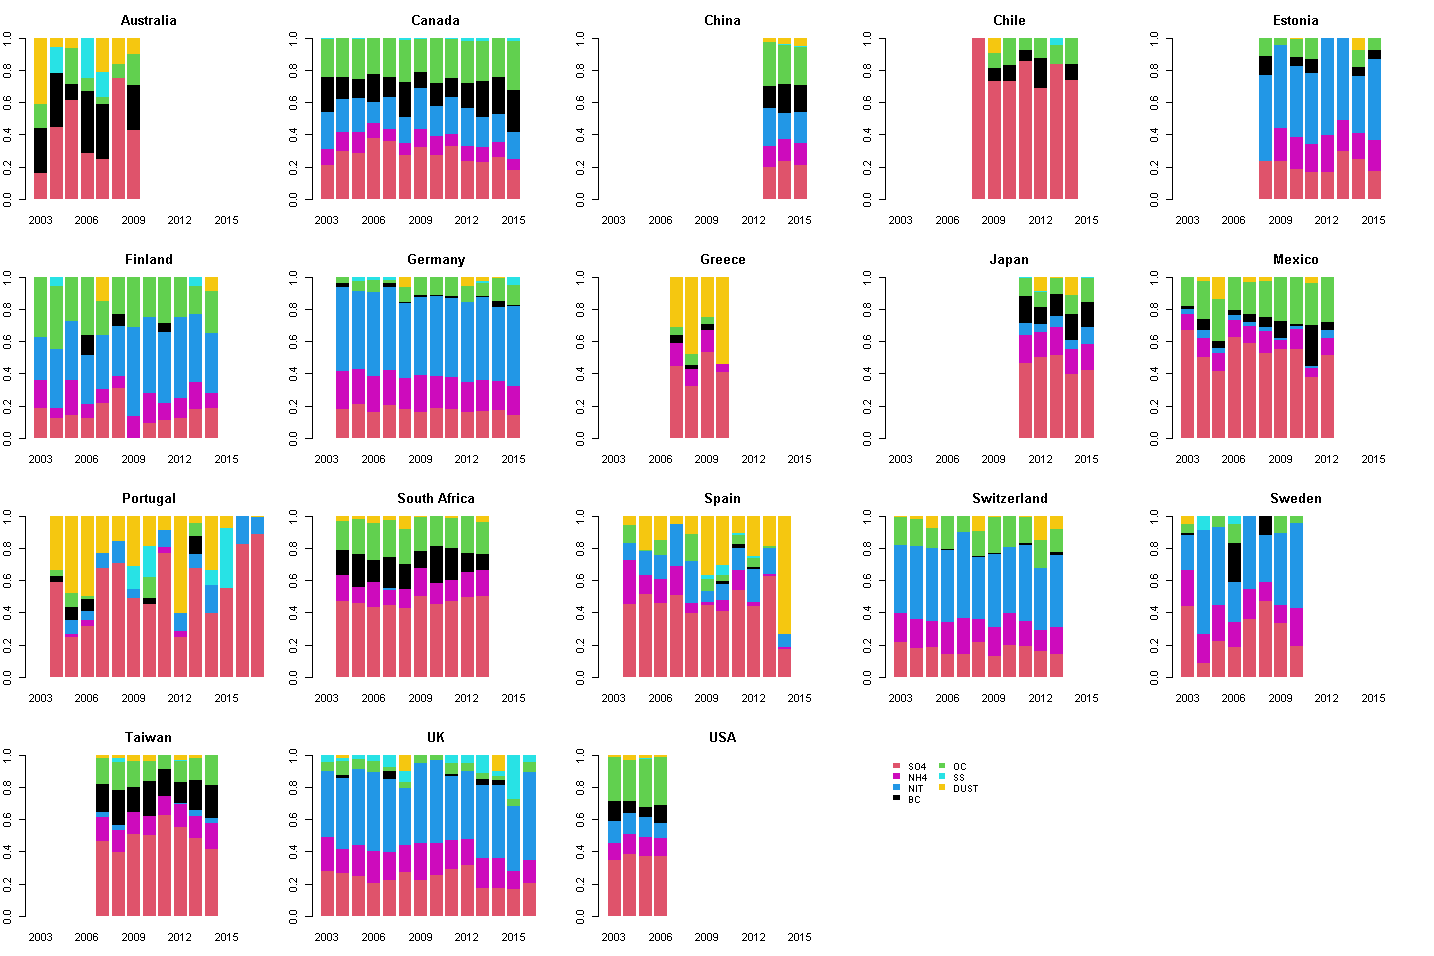
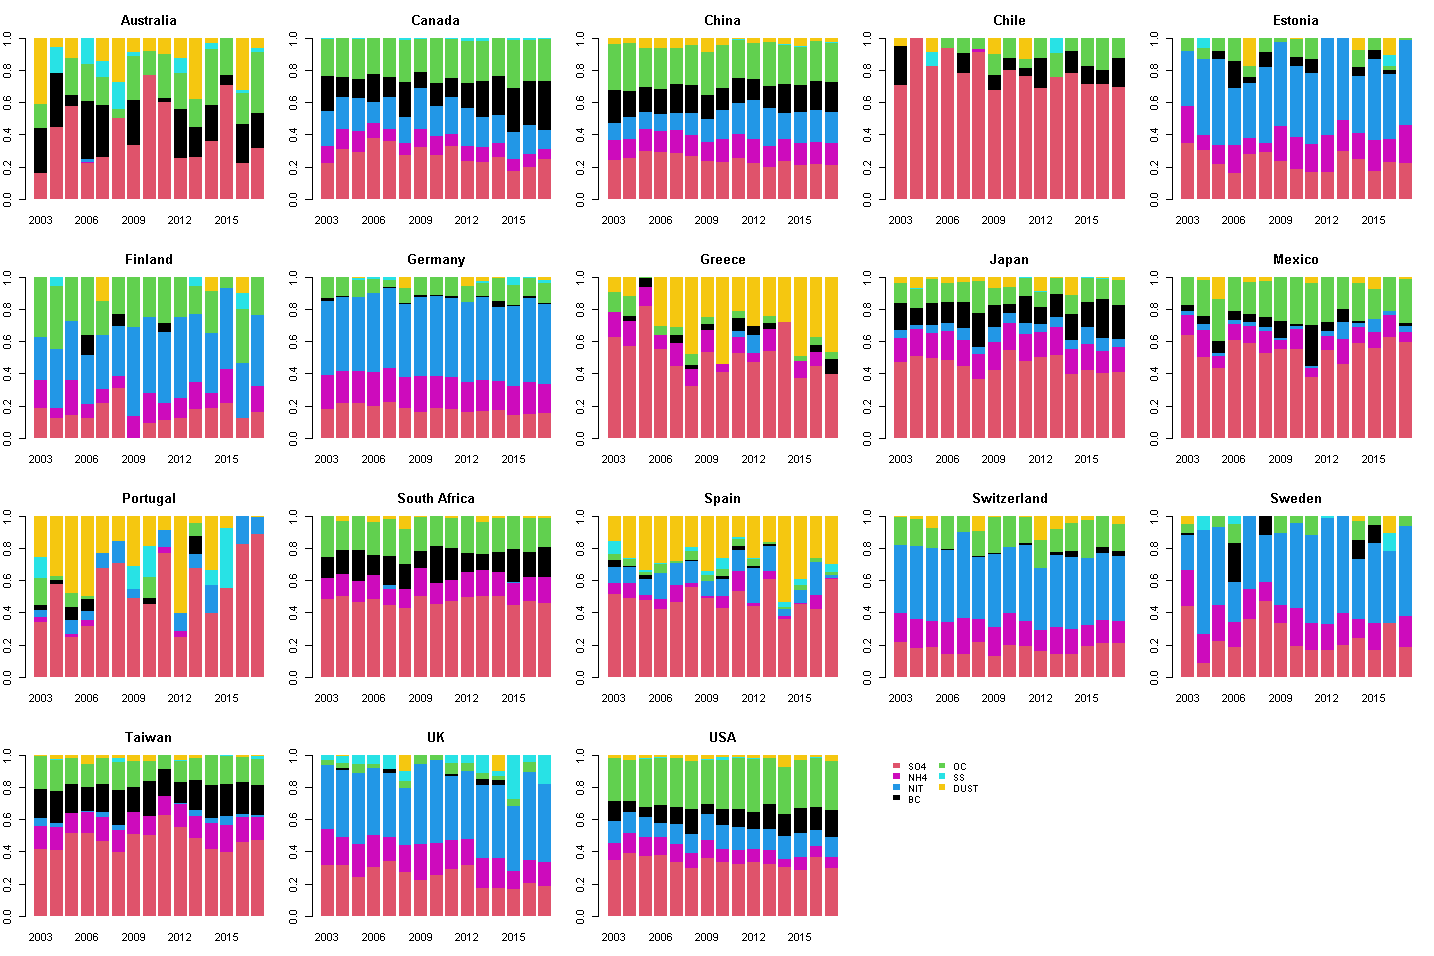
Wrapping up a first version of the analysis
The major novelty here is the addition of the meta-regression with constituent proportions. The method employs log-ratios as in compositional data analysis.

Descriptive statistics of the composition are added.

Small change in constituent data: all years are kept to have more representative means per city.

Update of the README to present a (very rough) summary of the analysis so far.

diff --git a/README.md b/README.md
@@ -4,17 +4,23 @@ Here is a summary of what I have done so far.
 
 ## Data
 
-For the first stage PM2.5 data, I roughly follow previous approach to clean the data. I exclude cities that have less than two years of pollution data. I also exclude the cities that have a too high proportion of missing data between the first and last valid data.
+For the first stage PM2.5 data, I roughly follow previous approach to clean the data. I exclude cities that have less than one year of pollution data. I also exclude the cities that have a too high proportion of missing data between the first and last valid data.
 
-For the constituent data (SPEC), I hereby use the 10km buffer aggregation since it allows to have a lower proportion of zero values. But overall the results are really similar between the two datasets.
+For the constituent data (SPEC), I hereby use the 10km buffer aggregation since it allows to have a lower proportion of zero values. But overall the results are really similar between the two datasets. 
 
-To harmonize both datasets (pollution and SPEC), I only selected common years between them. This corresponds to years between 2003 and 2017 for which there are PM2.5 values. It significantly reduces the time series length for some countries especially for North American ones (USA and Canada).
+As discussed, I make the hypothesis that pollution is time-invariant. This means that I use all PM2.5 data after 1999 for the first stage, and all constituent data (2003-2017).
 
-![TSlength](https://github.com/PierreMasselot/MCC-HetPoll/blob/master/Results/1_TSlength.png)
+Here, I compare the sum of mean concentration of each constituent ofr each country to the mean of observed PM2.5 for each common year. It shows that the constituent sum does not quite add up to the observed level of PM2.5. 
 
-Here, I compare the sum of mean concentration of each constituent ofr each country to the mean of observed PM2.5 for each year. It shows that the constituent sum does not quite add up to the observed level of PM2.5.
+![SpecCountries](https://github.com/PierreMasselot/MCC-HetPoll/blob/master/Results/1a_SpecCountries.png)
 
-![SpecCountries](https://github.com/PierreMasselot/MCC-HetPoll/blob/master/Results/1_SpecCountries.png)
+Below is the same plot but showing proportions for all years. Overall, there is little variation of proportions within countries from year to years, athough there are few trends. For instance the proportion of DUST seems to increase in Greece while decreasing on Portugal. 
+
+![PropCountries](https://github.com/PierreMasselot/MCC-HetPoll/blob/master/Results/1b_CompCountries.png)
+
+The following plot shows the variation matrix of constituents proportion. This matrix computes the variance of the log-ratios between each constituent. When this variance is high, this means that the two constituents tend to vary in opposite directions (when one increases, it takes the proportion of the other). DUST seems to vary a lot compared to other constituents. This may be explained by its high proportion of zero values, meaning that when DUST is present, all other constituents decrease. We also observe a high variation of black carbon (BC) compared to sea salt (SS) and Nitrate (NIT).
+
+![VariationMat](https://github.com/PierreMasselot/MCC-HetPoll/blob/master/Results/1b_VariationMatrix.png)
 
 ## First stage model
 
@@ -26,14 +32,19 @@ Also, when comparing with the models that account for the maximum data available
 
 ![RR10](https://github.com/PierreMasselot/MCC-HetPoll/blob/master/Results/2bis_RR10.png)
 
-Thus, I finally apply the same parametrization as in NEJM paper for PM2.5, but with a more aggressaive confounding for temperature (DLNM with lags up to 21) and no confounding of humidity since the variable is not always available.
+I finally apply the same parametrization as in NEJM paper for PM2.5, but with no confounding of humidity since the variable is not always available. The confounding of temperature is slightly modified, replacing the 6 degrees of freedom of ns by knots at quantiles 10, 75 and 90 %.
 
 ## Second stage (in progress)
 
-Below, I show the BLUP by applying the meta-regression with both city and country as random effects. As expected, fewer countries display significant RR than in the NEJM paper since less data are used (n.b. 2003 and after).  
+For the second stage, the constituents proportions cannot be used directly as predictors, since they sum to one. This results in a singular matrix and can also lead to spurious correlations as shown by Aitchison in his work.
+I apply the procedure of Martín-Fernández et al. (2003), which goes through the isometric logratio transform. Basically, each constituent is replaced by the logarithm of its value divided by the geometric mean of other constituents. The resulting variables thus represent the variation of the constituent relatively to others. Mathematically, this maps the ratios to a classical euclidean geometry.
 
-![BLUP](https://github.com/PierreMasselot/MCC-HetPoll/blob/master/Results/3a_forestplot_country.png)
+Below are the coefficients obtained using mixmeta with the logratios as meta-predictors. With this approach, no constituent seems to signifcantly modify the RR compared to all other.
 
-In the following, I integrate the overall mean of each constituent as fixed-effect meta-predictors. According to this result, only ammonia (NH4) seems to have an aggravating effect.
+![metaComp](https://github.com/PierreMasselot/MCC-HetPoll/blob/master/Results/3c_forestplot_logratio.png)
 
-![betaSPEC](https://github.com/PierreMasselot/MCC-HetPoll/blob/master/Results/3b_forestplot_betaSPEC.png)
+The advantage of compositional data analysis, is that we can analyze subcompositions, i.e. to check the variation of several constituents compared to others. Below show effect modifications estimated when considering only secondary inorganic components (INOR, which are SO4, NH4 and NIT). This means that we estimate the impact of each compared only to other secondary inorganic components independently to the four other components. In this case, a higher proportion of SO4 seems to lead to higher RRs and conversely, a higher proportion of NH4 to lower RRs. 
+
+The fourth value is the effect of high proportion of secondary inorganic components compared to other components (BC, OC, SS, DUST). And it seems that these components jointly lead to higher RRs.
+
+![metaInor](https://github.com/PierreMasselot/MCC-HetPoll/blob/master/Results/3c_forestplot_secondaryInorganic.png)
